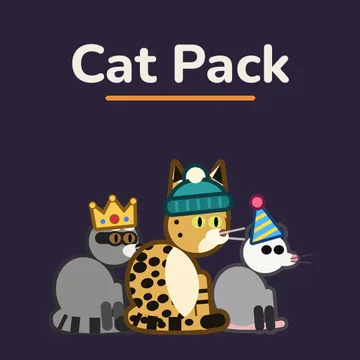
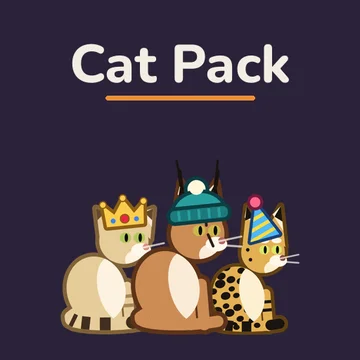
Packs: Backyard Pack (raccoon, skunk, possum) split from the Cat Pack; fox + red panda free
Claude-Session: https://claude.ai/code/session_018U967UZi13yUtdzjJ83Z3F

Changed region(s): [[0.1222, 0.4278, 0.8556, 0.9472]]

diff --git a/docs/index.html b/docs/index.html
@@ -223,25 +223,22 @@ footer .brand{font-size:16px}
         <img src="media/app-icon.png?v=2" alt="">
         <div>
           <h3>Free <span class="tag">Everyone</span></h3>
-          <p>Summer and Soot with all their free looks, plus a yellow lab. The Fitting Room, the Photo booth, the Play park and Gaming mode are all free.</p>
+          <p>Summer and Soot with all their free looks, plus a yellow lab, a fox and a red panda. The Fitting Room, the Photo booth, the Play park and Gaming mode are all free.</p>
           <div class="pets">
             <figure><img src="media/pets/summer.webp?v=2" alt="">Summer</figure>
             <figure><img src="media/pets/soot.webp?v=2" alt="">Soot</figure>
             <figure><img src="media/pets/lab.webp?v=2" alt="">Yellow lab</figure>
+            <figure><img src="media/pets/fox.webp?v=2" alt="">Fox</figure>
+            <figure><img src="media/pets/redpanda.webp?v=2" alt="">Red panda</figure>
           </div>
         </div>
       </div>
       <div class="pack">
-        <img src="media/cat_pack.webp?v=2" alt="Cat Pack">
+        <img src="media/cat_pack.webp?v=3" alt="Cat Pack">
         <div>
           <h3>Cat Pack <span class="tag">One-time</span></h3>
-          <p>5 wild cats and 5 more pets (a raccoon, red panda, fox, skunk and possum), each with its own voice. And your own cat from a photo: tap its fur, stripes and eyes on a picture and it joins the others. The photo never leaves your phone.</p>
+          <p>5 wild cats, each with its own voice. And your own cat from a photo: tap its fur, stripes and eyes on a picture and it joins the others. The photo never leaves your phone.</p>
           <div class="pets">
-            <figure><img src="media/pets/raccoon.webp?v=2" alt="">Raccoon</figure>
-            <figure><img src="media/pets/redpanda.webp?v=2" alt="">Red panda</figure>
-            <figure><img src="media/pets/fox.webp?v=2" alt="">Fox</figure>
-            <figure><img src="media/pets/skunk.webp?v=2" alt="">Skunk</figure>
-            <figure><img src="media/pets/possum.webp?v=2" alt="">Possum</figure>
             <figure><img src="media/pets/lynx.webp?v=2" alt="">Lynx</figure>
             <figure><img src="media/pets/serval.webp?v=2" alt="">Serval</figure>
             <figure><img src="media/pets/caracal.webp?v=2" alt="">Caracal</figure>
@@ -269,6 +266,18 @@ footer .brand{font-size:16px}
           </div>
         </div>
       </div>
+      <div class="pack">
+        <img src="media/backyard_pack.webp?v=1" alt="Backyard Pack">
+        <div>
+          <h3>Backyard Pack <span class="tag">One-time</span></h3>
+          <p>A raccoon, skunk and possum, each with its own voice.</p>
+          <div class="pets">
+            <figure><img src="media/pets/raccoon.webp?v=2" alt="">Raccoon</figure>
+            <figure><img src="media/pets/skunk.webp?v=2" alt="">Skunk</figure>
+            <figure><img src="media/pets/possum.webp?v=2" alt="">Possum</figure>
+          </div>
+        </div>
+      </div>
       <div class="pack every">
         <img src="media/group.webp?v=2" alt="" style="aspect-ratio:1;object-fit:cover">
         <div>
@@ -280,13 +289,14 @@ footer .brand{font-size:16px}
 
     <div class="tablewrap">
     <table>
-      <thead><tr><th></th><th>Free</th><th>Cat Pack</th><th>Dog Pack</th></tr></thead>
+      <thead><tr><th></th><th>Free</th><th>Cat Pack</th><th>Dog Pack</th><th>Backyard Pack</th></tr></thead>
       <tbody>
-        <tr><td>Summer, Soot and a yellow lab</td><td class="y">✓</td><td class="y">✓</td><td class="y">✓</td></tr>
-        <tr><td>Fitting Room, Photo booth, Play park, Gaming mode</td><td class="y">✓</td><td class="y">✓</td><td class="y">✓</td></tr>
-        <tr><td>5 wild cats, 5 more pets, your cat from a photo</td><td class="n">–</td><td class="y">✓</td><td class="n">–</td></tr>
-        <tr><td>14 more dogs</td><td class="n">–</td><td class="n">–</td><td class="y">✓</td></tr>
-        <tr><td>Up to 4 more pets, hats, beds, weather outfits</td><td class="n">–</td><td class="y">✓</td><td class="y">✓</td></tr>
+        <tr><td>Summer, Soot, a yellow lab, a fox and a red panda</td><td class="y">✓</td><td class="y">✓</td><td class="y">✓</td><td class="y">✓</td></tr>
+        <tr><td>Fitting Room, Photo booth, Play park, Gaming mode</td><td class="y">✓</td><td class="y">✓</td><td class="y">✓</td><td class="y">✓</td></tr>
+        <tr><td>5 wild cats, your cat from a photo</td><td class="n">–</td><td class="y">✓</td><td class="n">–</td><td class="n">–</td></tr>
+        <tr><td>14 more dogs</td><td class="n">–</td><td class="n">–</td><td class="y">✓</td><td class="n">–</td></tr>
+        <tr><td>A raccoon, skunk and possum</td><td class="n">–</td><td class="n">–</td><td class="n">–</td><td class="y">✓</td></tr>
+        <tr><td>Up to 4 more pets, hats, beds, weather outfits</td><td class="n">–</td><td class="y">✓</td><td class="y">✓</td><td class="y">✓</td></tr>
       </tbody>
     </table>
     </div>
